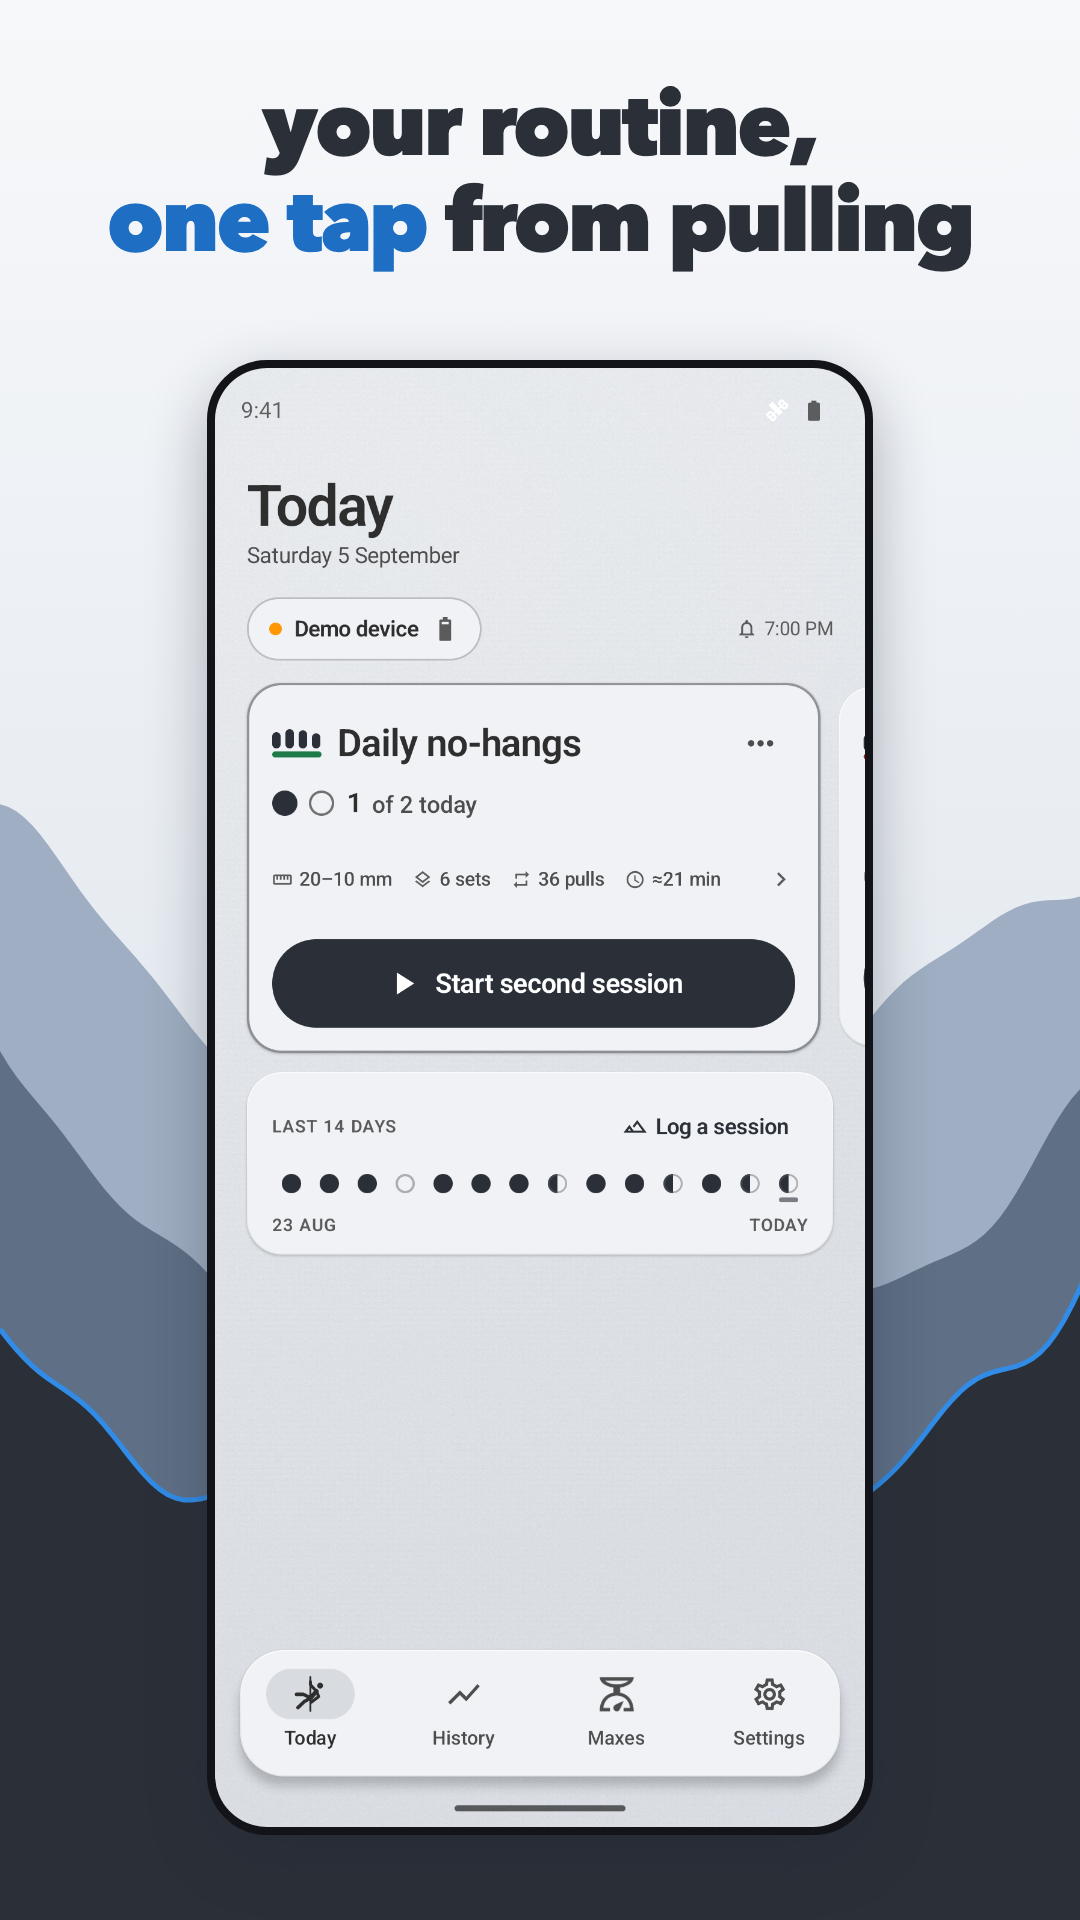
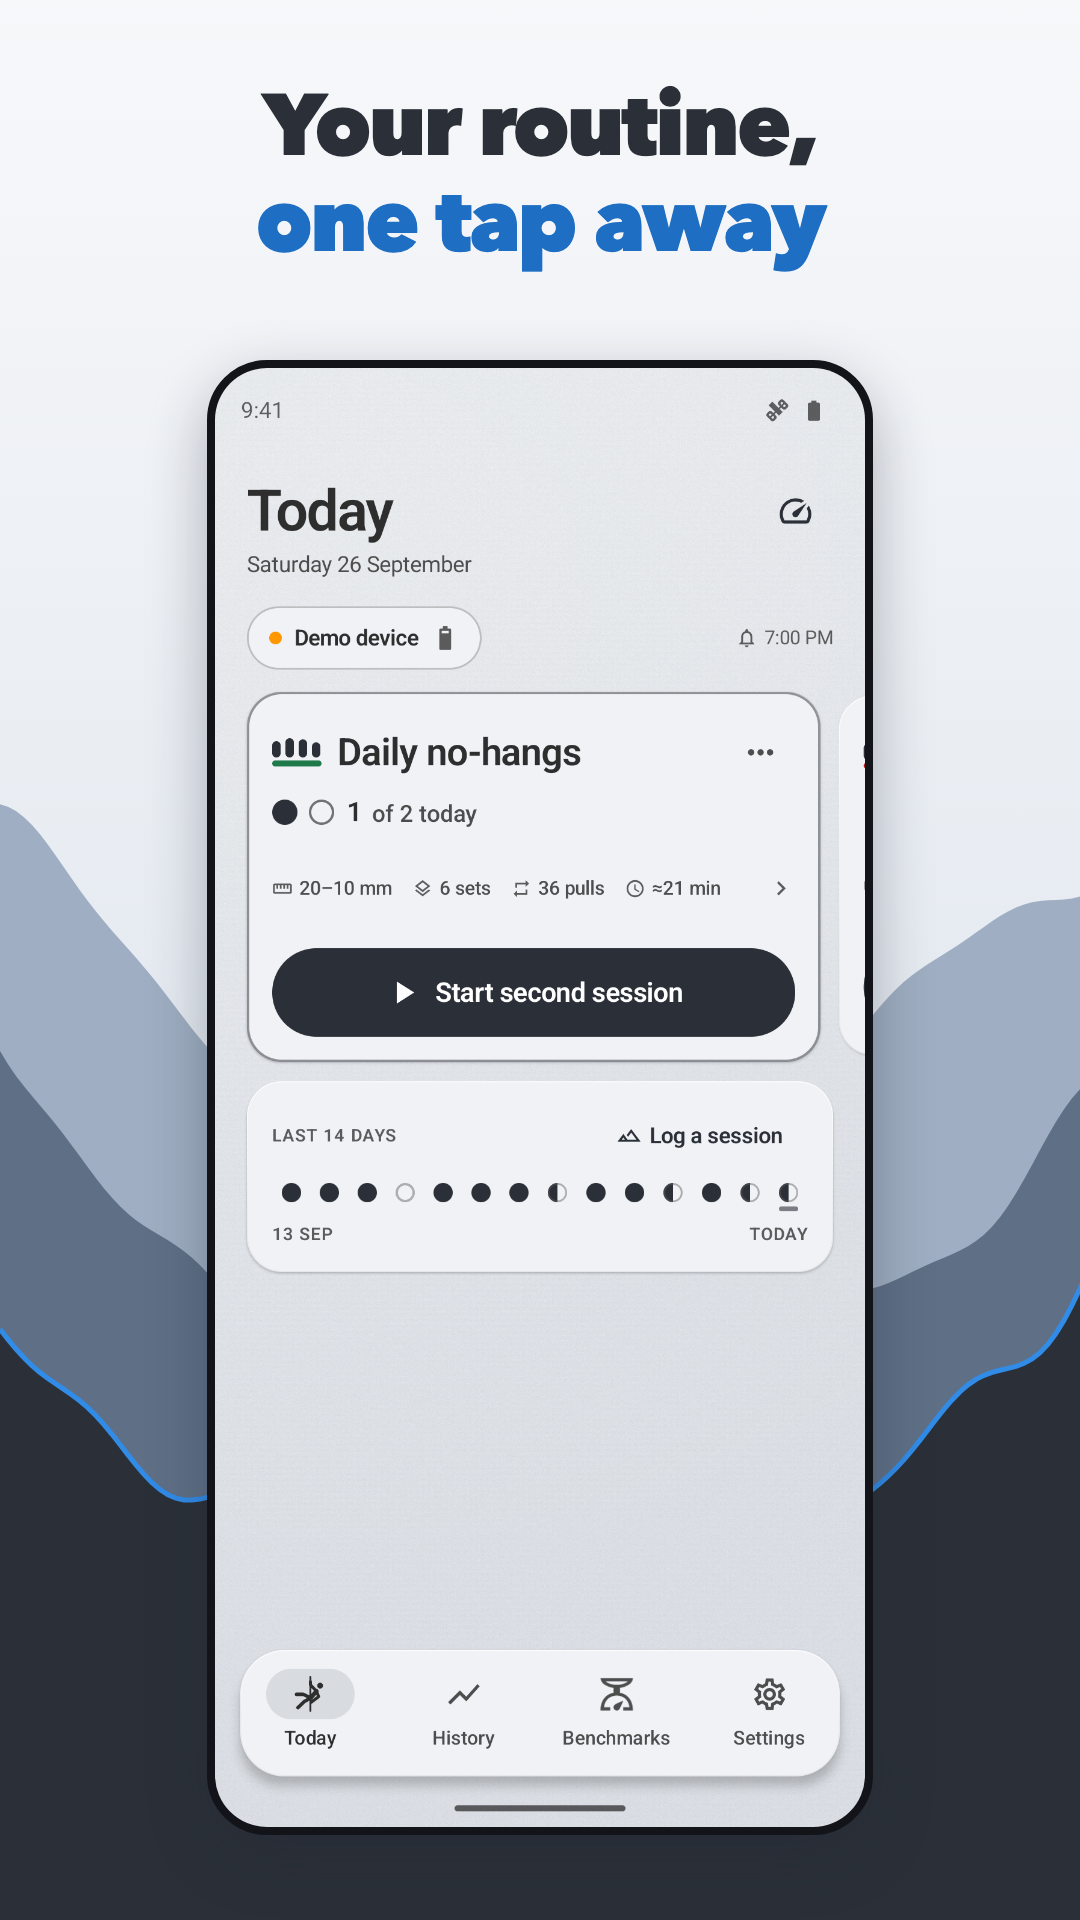
Play artwork for 1.2.0: new captures, critical force, plain headlines
Six fresh captures from the current build: Today, a hold with the clock running in the
target lane, the rest countdown on the graph, a critical force result, History with the
load-per-grip chart, and the builder's set list. The critical force slide replaces the QR
share slide. Headlines mirror the iOS set. The listing mentions Benchmarks and critical
force, and changelogs/14.txt carries the 1.2.0 notes.

diff --git a/android/store/README.md b/android/store/README.md
@@ -17,7 +17,31 @@ Optional `PLAYWRIGHT_MODULE` and `CHROMIUM_PATH` environment variables select an
 existing Playwright installation and Chromium executable. Avenir Next must be
 available locally to reproduce the approved typography. No font files are bundled.
 
-Capture notes: API 36 emulator, 1080 × 2424, English, light appearance, demo force
-gauge. The sample live routine used a 20–24 kg target to match the demo signal.
-The store icon is derived from the app's actual launcher paths. Screenshot
-framing does not alter the app UI or force readings.
+Capture notes: API 36 emulator (`Get_a_Grip_API_36`), 1080 × 2424, English, light
+appearance, demo force gauge, SystemUI demo mode (9:41, full battery, no
+notifications). The world is seeded by the DEBUG launch extras in
+`app/src/main/kotlin/run/nuri/getagrip/debug/Seeds.kt`:
+
+```sh
+adb shell am start -n run.nuri.getagrip/.MainActivity --ez mockDevice true \
+  --ez seedTwoRoutines true --ez seedHistory true --ez seedOneToday true
+```
+
+Launch twice before capturing Today: the first launch after a seed can still draw the
+previous world. Tap the gauge chip to connect the demo device.
+
+- `01_today`: Today, one of two sessions done.
+- `02_working`, `03_rest`: add `--ez seedTargetKg true` (a 20–24 kg band on every set,
+  which the demo gauge's 22 kg plateau sits inside), start a session, capture a hold
+  with the clock running and the next rest's countdown. Today is captured without it:
+  the kilogram band against the seeded maxes paints the routine's intensity mark red.
+- `04_critical_force`: Benchmarks › Critical force history › the newest left-hand test
+  (a seeded result, analysed by the real code). The live test (`--ez previewCriticalForce
+  true`) was captured too, but the demo gauge's pulls drift against the test's beat and
+  its per-pull bars read as gaps.
+- `05_history`: History scrolled so the calendar and the load-per-grip chart share the
+  screen.
+- `06_builder`: the routine's overview › Edit routine, scrolled to the sets.
+
+The store icon is derived from the app's actual launcher paths. Screenshot framing does
+not alter the app UI or force readings.
